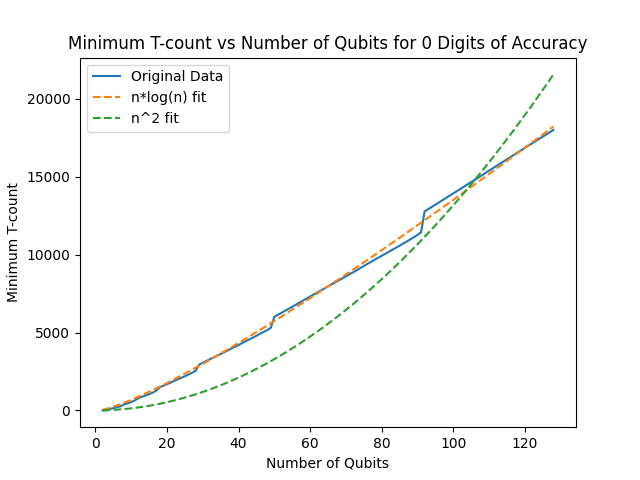
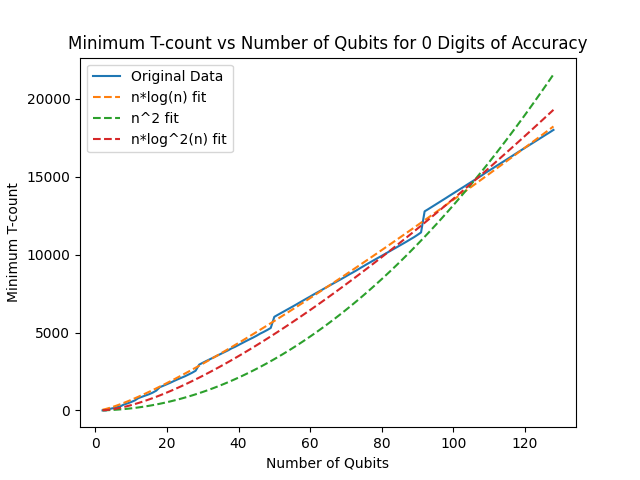
Added an nlg^2n regression to the gate counter 2D plot

diff --git a/gate_counter.py b/gate_counter.py
@@ -200,13 +200,16 @@ if __name__ == "__main__":
         ax.set_xlabel("Digits of Accuracy")
         ax.set_ylabel("Number of Qubits")
         ax.set_zlabel(f"Minimum {gate_type}-count")
-    else:        
-        # Perform regression to determine if the plot is closer to n*log(n) or n^2
+    else:
+        # Perform regression to determine if the plot is closer to n*log(n), n^2, or n*log^2(n)
         def n_log_n(x, a):
             return a * x * np.log(x)
 
         def n_squared(x, a):
             return a * x**2
+
+        def n_log_squared_n(x, a):
+            return a * x * (np.log(x)**2)
 
         x_data = np.array(sizes)
         y_data = min_gate_counts[:, 0]
@@ -219,27 +222,36 @@ if __name__ == "__main__":
         params_n2, _ = curve_fit(n_squared, x_data, y_data)
         y_fit_n2 = n_squared(x_data, *params_n2)
 
+        # Fit the data to n*log^2(n)
+        params_nlog2n, _ = curve_fit(n_log_squared_n, x_data, y_data)
+        y_fit_nlog2n = n_log_squared_n(x_data, *params_nlog2n)
+
         # Plot the original data and the fits
         plt.plot(x_data, y_data, label="Original Data")
         plt.plot(x_data, y_fit_nlogn, label="n*log(n) fit", linestyle="--")
         plt.plot(x_data, y_fit_n2, label="n^2 fit", linestyle="--")
+        plt.plot(x_data, y_fit_nlog2n, label="n*log^2(n) fit", linestyle="--")
         plt.legend()
-        
+
         plt.xlabel("Number of Qubits")
         plt.ylabel(f"Minimum {gate_type}-count")
         plt.title(f"Minimum {gate_type}-count vs Number of Qubits for 0 Digits of Accuracy")
-        
+
         # Determine which fit is better
         residuals_nlogn = y_data - y_fit_nlogn
         residuals_n2 = y_data - y_fit_n2
+        residuals_nlog2n = y_data - y_fit_nlog2n
 
         ss_res_nlogn = np.sum(residuals_nlogn**2)
         ss_res_n2 = np.sum(residuals_n2**2)
+        ss_res_nlog2n = np.sum(residuals_nlog2n**2)
 
-        if ss_res_nlogn < ss_res_n2:
+        if ss_res_nlogn < ss_res_n2 and ss_res_nlogn < ss_res_nlog2n:
             print("The n*log(n) fit is better.")
-        else:
+        elif ss_res_n2 < ss_res_nlogn and ss_res_n2 < ss_res_nlog2n:
             print("The n^2 fit is better.")
+        else:
+            print("The n*log^2(n) fit is better.")
 
     if args.save_file:
         plt.savefig(args.save_file)
